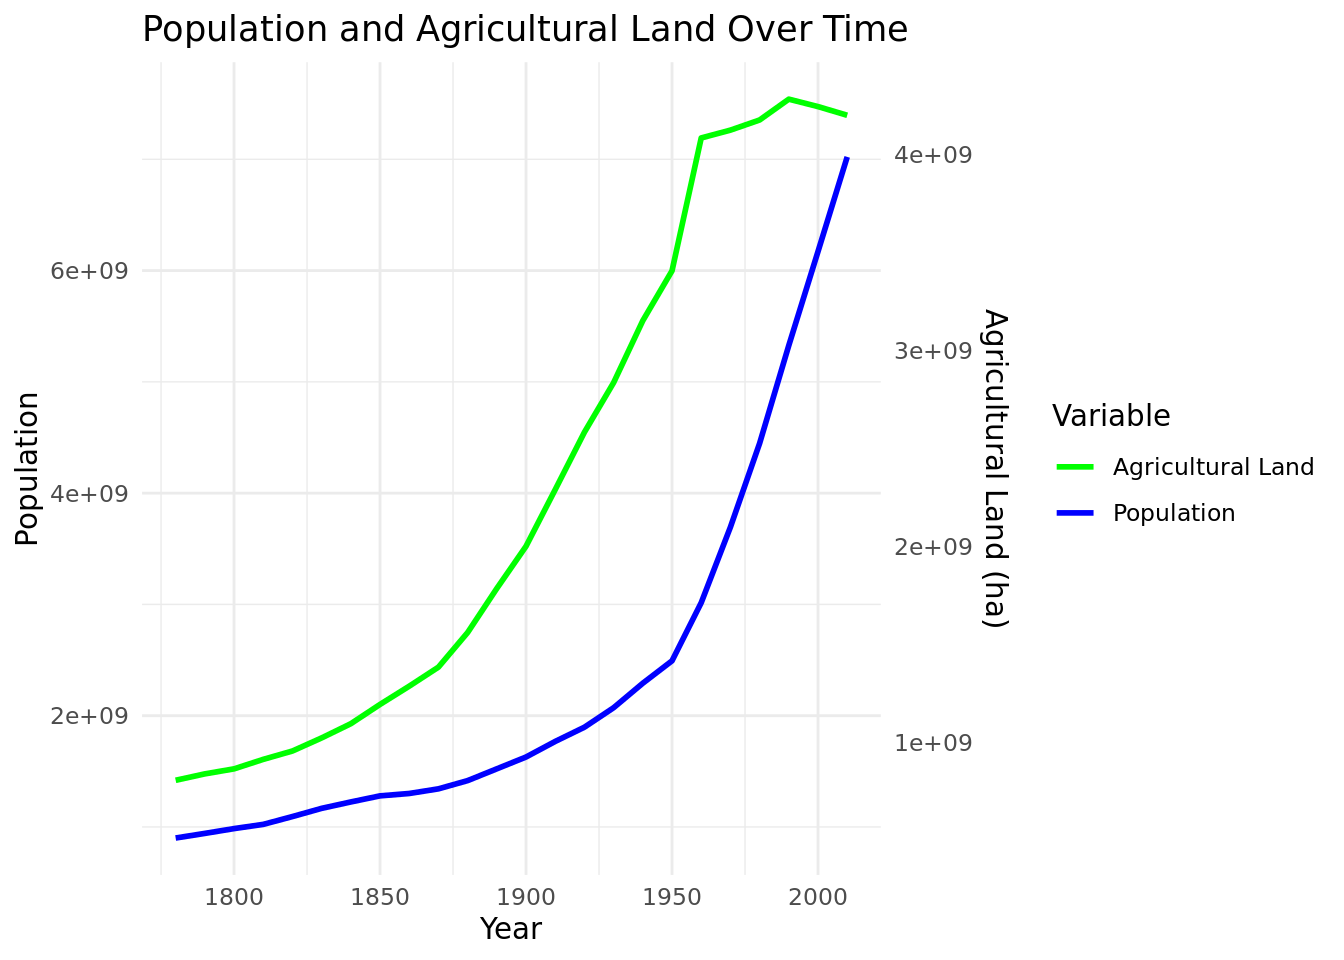
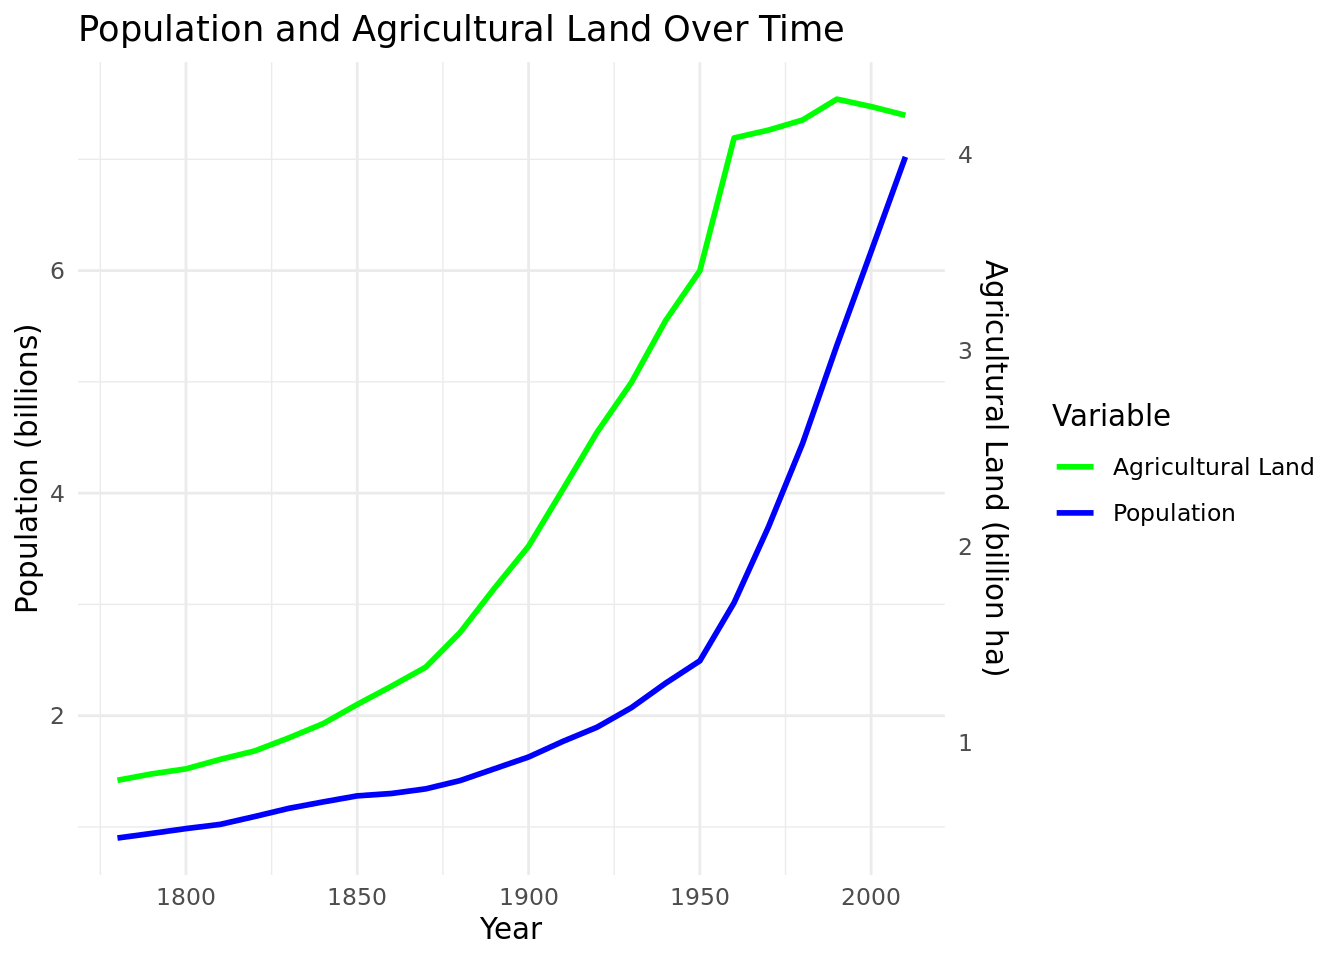
Made the y axis units billions

diff --git a/Working space.html b/Working space.html
@@ -112,7 +112,7 @@ pre > code.sourceCode > span > a:first-child::before { text-decoration: underlin
 ✖ dplyr::lag()      masks stats::lag()
 ✖ yardstick::spec() masks readr::spec()
 ✖ recipes::step()   masks stats::step()
-• Search for functions across packages at https://www.tidymodels.org/find/</code></pre>
+• Learn how to get started at https://www.tidymodels.org/start/</code></pre>
 </div>
 <div class="sourceCode cell-code" id="cb5"><pre class="sourceCode r code-with-copy"><code class="sourceCode r"><span id="cb5-1"><a href="#cb5-1" aria-hidden="true" tabindex="-1"></a><span class="fu">library</span>(gapminder)</span>
 <span id="cb5-2"><a href="#cb5-2" aria-hidden="true" tabindex="-1"></a><span class="fu">library</span>(openintro)</span></code><button title="Copy to Clipboard" class="code-copy-button"><i class="bi"></i></button></pre></div>
@@ -220,13 +220,13 @@ dbl (2): Year, agriculture_ha
 <span id="cb16-11"><a href="#cb16-11" aria-hidden="true" tabindex="-1"></a></span>
 <span id="cb16-12"><a href="#cb16-12" aria-hidden="true" tabindex="-1"></a>scale_factor <span class="ot">&lt;-</span> <span class="fu">diff</span>(pop_range) <span class="sc">/</span> <span class="fu">diff</span>(agri_range)</span>
 <span id="cb16-13"><a href="#cb16-13" aria-hidden="true" tabindex="-1"></a></span>
-<span id="cb16-14"><a href="#cb16-14" aria-hidden="true" tabindex="-1"></a><span class="co"># Plot with dual axes</span></span>
+<span id="cb16-14"><a href="#cb16-14" aria-hidden="true" tabindex="-1"></a><span class="co"># Plot with dual axes, using billions</span></span>
 <span id="cb16-15"><a href="#cb16-15" aria-hidden="true" tabindex="-1"></a><span class="fu">ggplot</span>(ag_and_pop, <span class="fu">aes</span>(<span class="at">x =</span> Year)) <span class="sc">+</span></span>
-<span id="cb16-16"><a href="#cb16-16" aria-hidden="true" tabindex="-1"></a>  <span class="fu">geom_line</span>(<span class="fu">aes</span>(<span class="at">y =</span> Population, <span class="at">color =</span> <span class="st">"Population"</span>), <span class="at">size =</span> <span class="dv">1</span>) <span class="sc">+</span></span>
-<span id="cb16-17"><a href="#cb16-17" aria-hidden="true" tabindex="-1"></a>  <span class="fu">geom_line</span>(<span class="fu">aes</span>(<span class="at">y =</span> Agricultural_Land <span class="sc">*</span> scale_factor, <span class="at">color =</span> <span class="st">"Agricultural Land"</span>), <span class="at">size =</span> <span class="dv">1</span>) <span class="sc">+</span></span>
+<span id="cb16-16"><a href="#cb16-16" aria-hidden="true" tabindex="-1"></a>  <span class="fu">geom_line</span>(<span class="fu">aes</span>(<span class="at">y =</span> Population <span class="sc">/</span> <span class="fl">1e9</span>, <span class="at">color =</span> <span class="st">"Population"</span>), <span class="at">size =</span> <span class="dv">1</span>) <span class="sc">+</span></span>
+<span id="cb16-17"><a href="#cb16-17" aria-hidden="true" tabindex="-1"></a>  <span class="fu">geom_line</span>(<span class="fu">aes</span>(<span class="at">y =</span> (Agricultural_Land <span class="sc">/</span> <span class="fl">1e9</span>) <span class="sc">*</span> scale_factor, <span class="at">color =</span> <span class="st">"Agricultural Land"</span>), <span class="at">size =</span> <span class="dv">1</span>) <span class="sc">+</span></span>
 <span id="cb16-18"><a href="#cb16-18" aria-hidden="true" tabindex="-1"></a>  <span class="fu">scale_y_continuous</span>(</span>
-<span id="cb16-19"><a href="#cb16-19" aria-hidden="true" tabindex="-1"></a>    <span class="at">name =</span> <span class="st">"Population"</span>,</span>
-<span id="cb16-20"><a href="#cb16-20" aria-hidden="true" tabindex="-1"></a>    <span class="at">sec.axis =</span> <span class="fu">sec_axis</span>(<span class="sc">~</span> . <span class="sc">/</span> scale_factor, <span class="at">name =</span> <span class="st">"Agricultural Land (ha)"</span>)</span>
+<span id="cb16-19"><a href="#cb16-19" aria-hidden="true" tabindex="-1"></a>    <span class="at">name =</span> <span class="st">"Population (billions)"</span>,</span>
+<span id="cb16-20"><a href="#cb16-20" aria-hidden="true" tabindex="-1"></a>    <span class="at">sec.axis =</span> <span class="fu">sec_axis</span>(<span class="sc">~</span> . <span class="sc">/</span> scale_factor, <span class="at">name =</span> <span class="st">"Agricultural Land (billion ha)"</span>)</span>
 <span id="cb16-21"><a href="#cb16-21" aria-hidden="true" tabindex="-1"></a>  ) <span class="sc">+</span></span>
 <span id="cb16-22"><a href="#cb16-22" aria-hidden="true" tabindex="-1"></a>  <span class="fu">scale_color_manual</span>(</span>
 <span id="cb16-23"><a href="#cb16-23" aria-hidden="true" tabindex="-1"></a>    <span class="at">name =</span> <span class="st">"Variable"</span>,</span>
